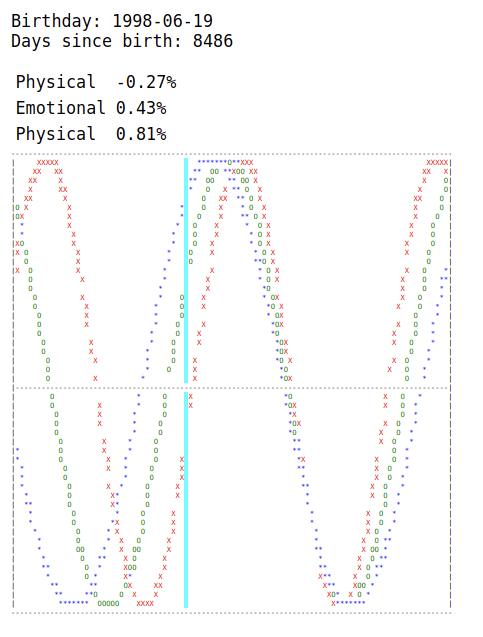
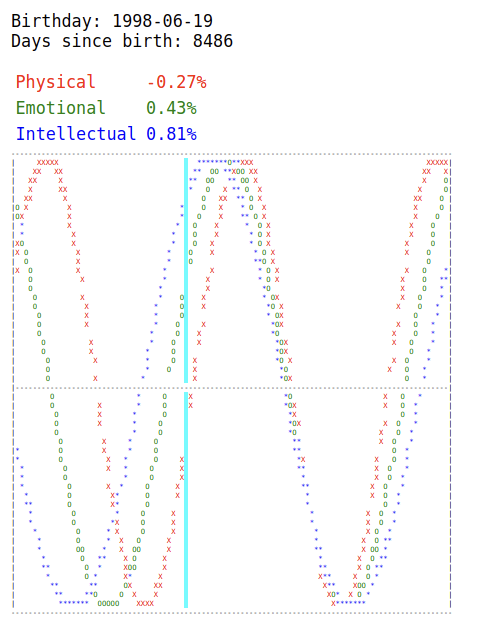
show today's line using background color

Changed region(s): [[0.0311, 0.1193, 0.4348, 0.2386]]

diff --git a/src/Biorhythm.tsx b/src/Biorhythm.tsx
@@ -64,24 +64,24 @@ const drawGraph = (
       if (y === Math.floor(props.height / 2)) {
         return <span>-</span>
       } else {
+        let additionalCss = ""
         if (i === Math.floor(props.daysBeforeToday * screenRatio)) {
-          return <span className="biorhythm-divisor">&nbsp;</span>
+          additionalCss = "biorhythm-divisor"
+        }
+        // if the point has multiple rhythms, pick up the one w/ the largest mask
+        if (x !== 0 && x !== physical && x !== emotional && x !== intellectual) {
+          x = Math.max(Math.max(Math.max(x, physical), emotional), intellectual)
+        }
+        if (x === 0) {
+          return <span className={additionalCss}>&nbsp;</span>
+        }
+        else if (x === physical) {
+          return <span className={`biorhythm-physical ${additionalCss}`}>X</span>
+        }
+        else if (x === emotional) {
+          return <span className={`biorhythm-emotional ${additionalCss}`}>O</span>
         } else {
-          // if the point has multiple rhythms, pick up the one w/ the largest mask
-          if (x !== 0 && x !== physical && x !== emotional && x !== intellectual) {
-            x = Math.max(Math.max(Math.max(x, physical), emotional), intellectual)
-          }
-          if (x === 0) {
-            return <span>&nbsp;</span>
-          }
-          else if (x === physical) {
-            return <span className="biorhythm-physical">X</span>
-          }
-          else if (x === emotional) {
-            return <span className="biorhythm-emotional">O</span>
-          } else {
-            return <span className="biorhythm-intellectual">*</span>
-          }
+          return <span className={`biorhythm-intellectual ${additionalCss}`}>*</span>
         }
       }
     })

diff --git a/README.md b/README.md
@@ -1,6 +1,6 @@
 # react-biorhythm
 
-Fun React component to display a biorhythm graph on screen
+A fun React component to display a biorhythm graph on screen
 
 ![screenshot](./screenshot.png)
 
@@ -18,7 +18,7 @@ Fun React component to display a biorhythm graph on screen
 
 ## Formula used
 ```
-rhythm = sin(2pi*t*T)
+rhythm = sin(2*PI*t*T)
 ```
 
 where T is the period of one of the below cycles
